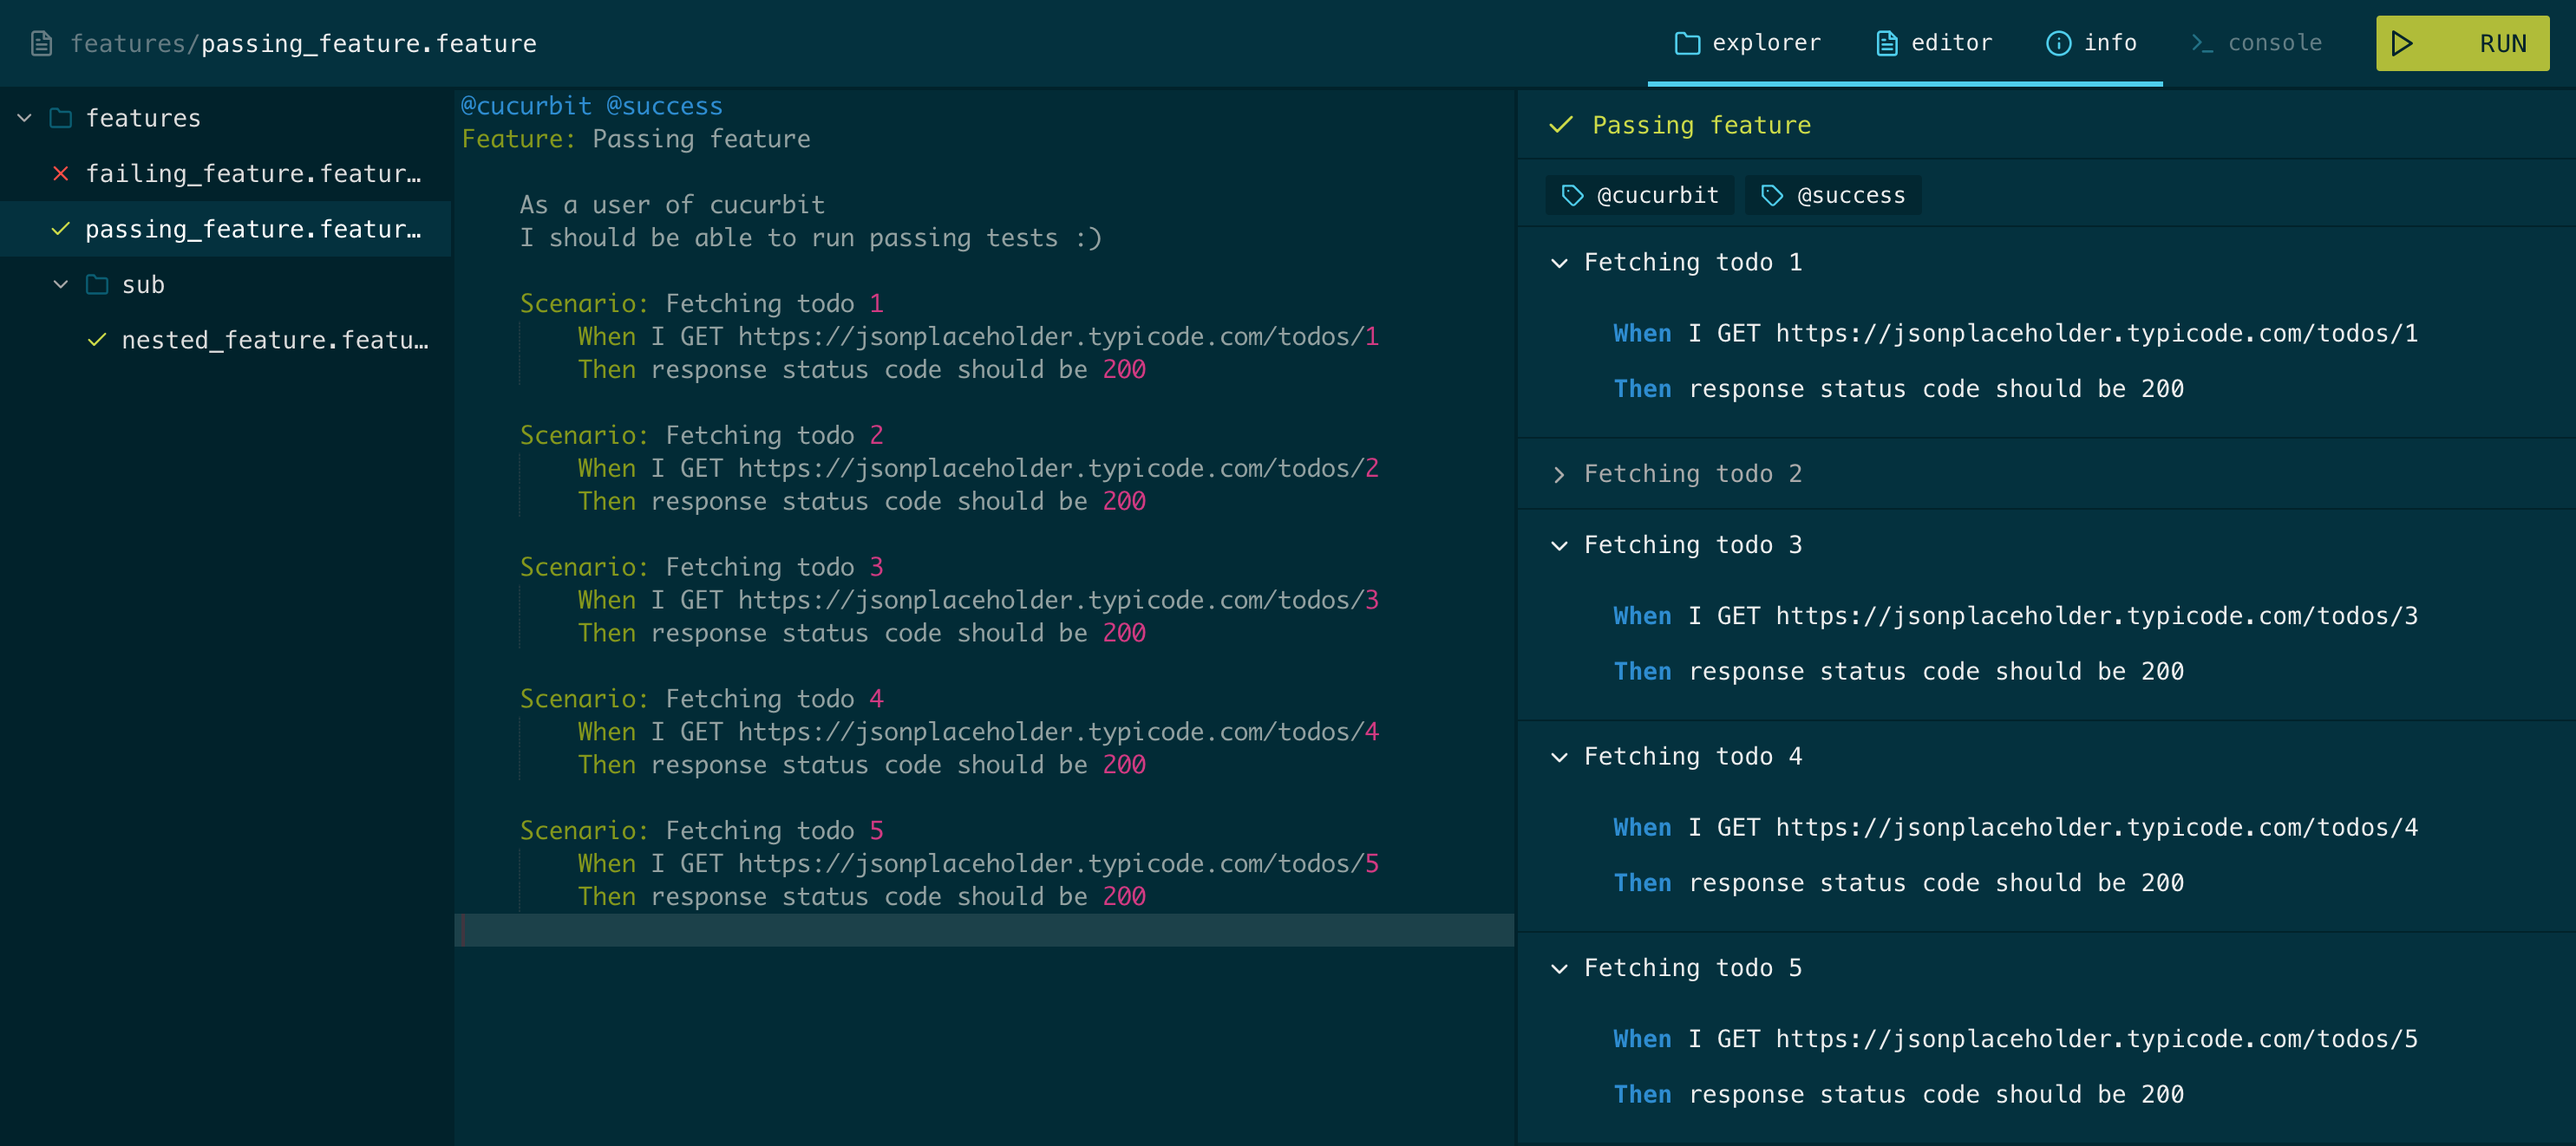
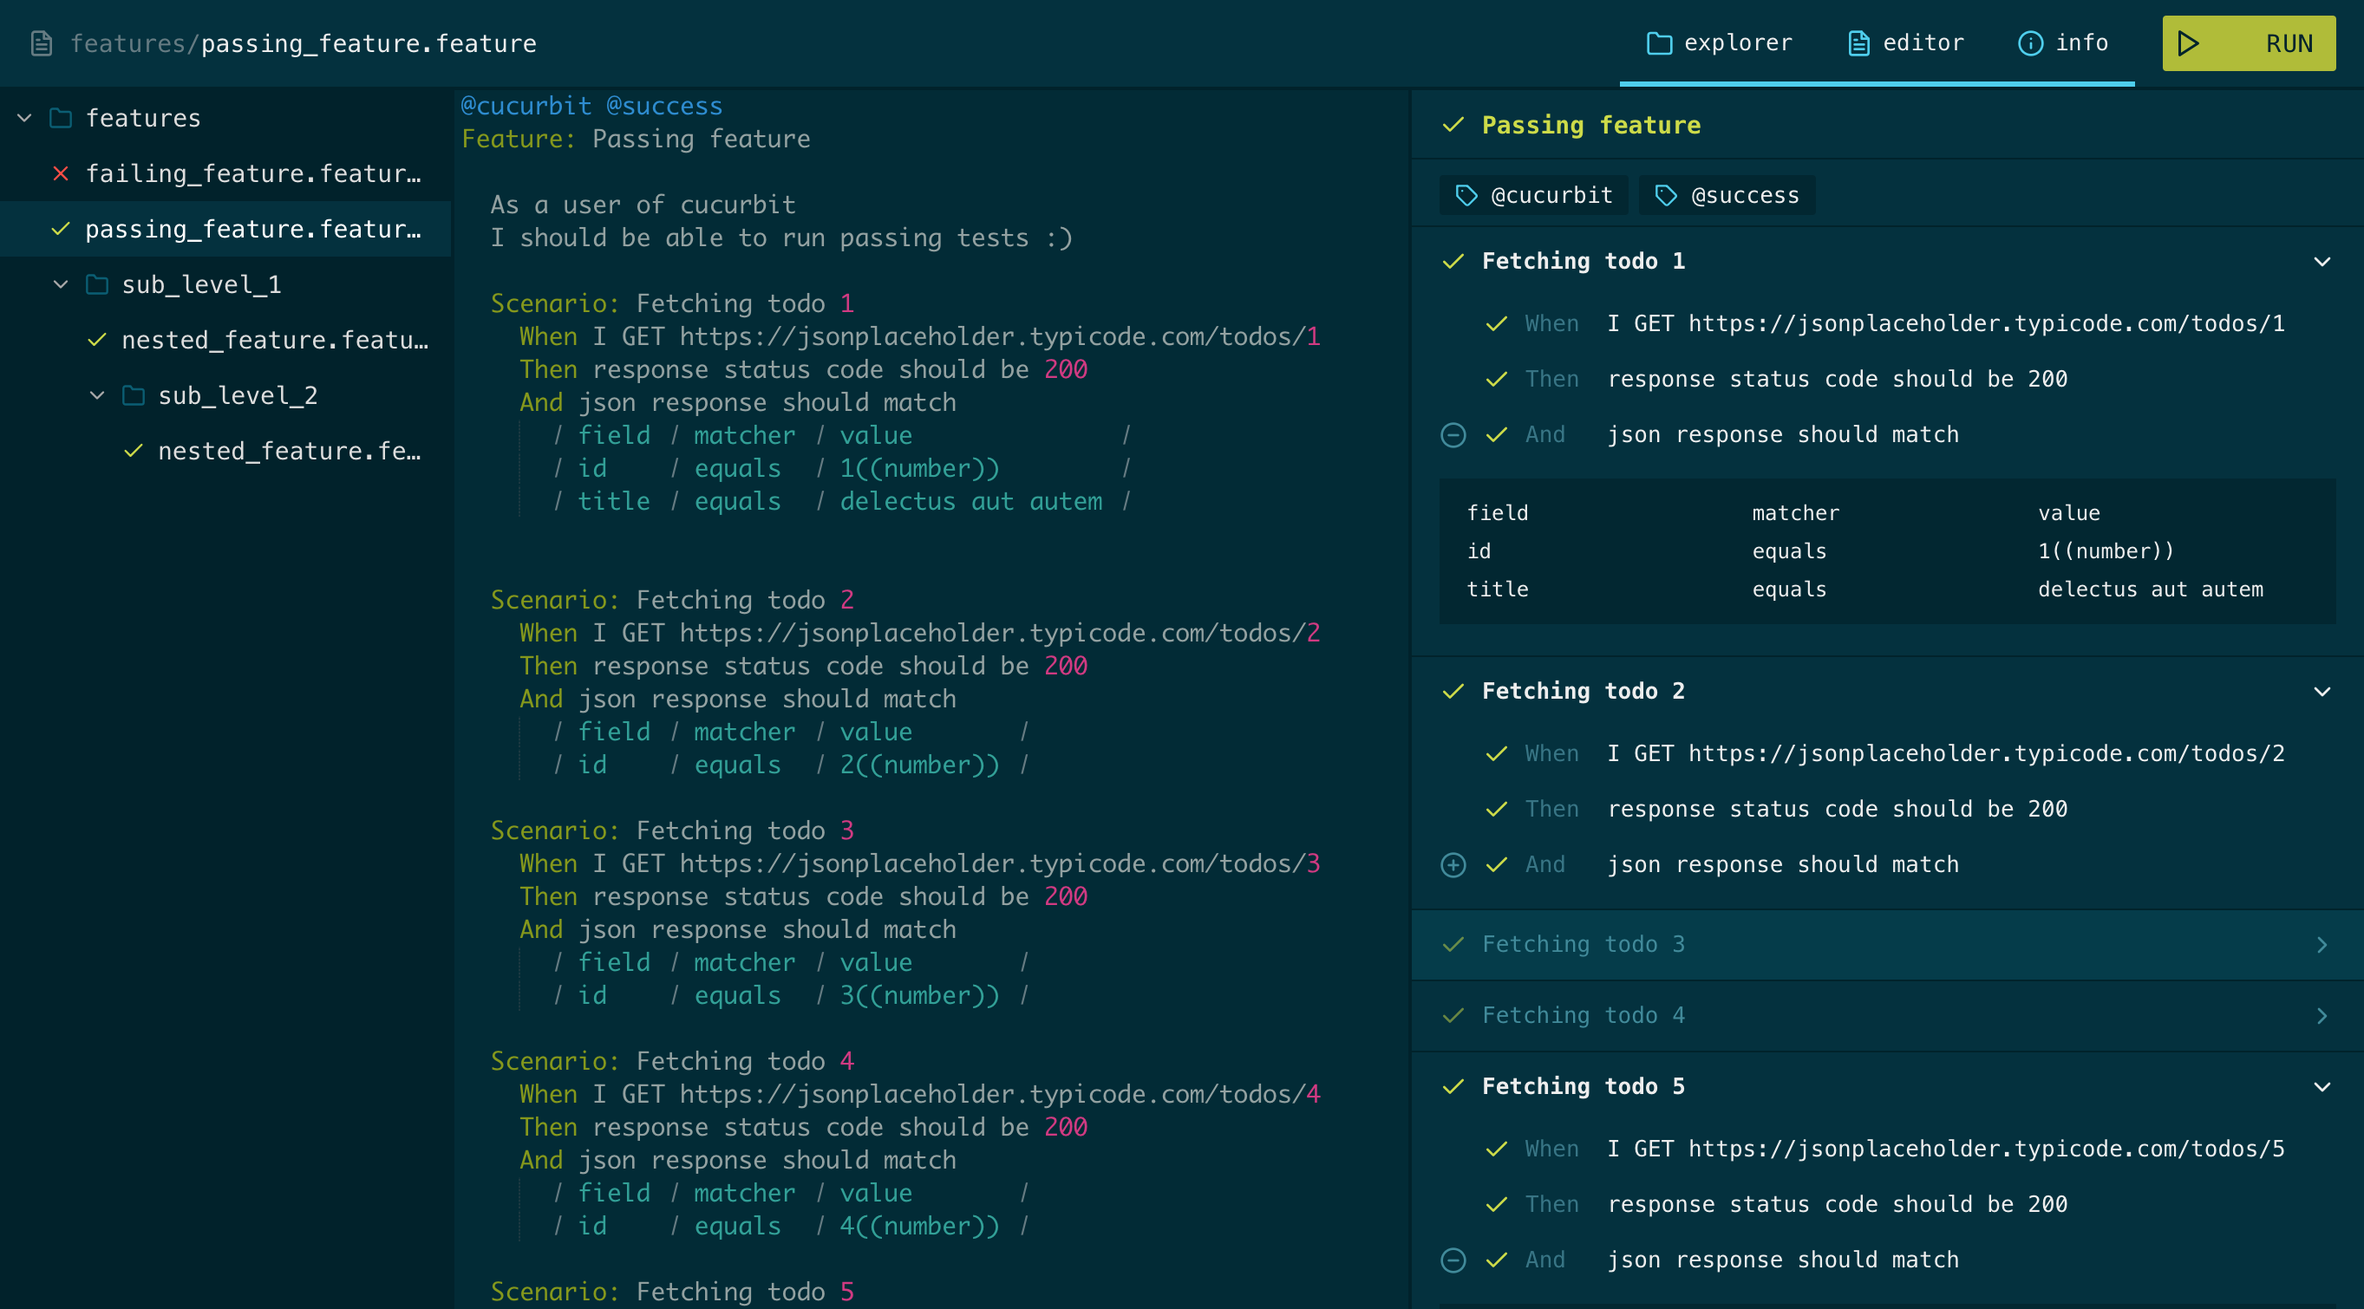
feat(ui): add status for scenarions/steps

diff --git a/packages/ui/src/components/Scenario.js b/packages/ui/src/components/Scenario.js
@@ -3,21 +3,24 @@ import styled from 'styled-components'
 import { ChevronRight, ChevronDown } from 'react-feather'
 import Tags from './Tags'
 import ScenarioSteps from './ScenarioSteps'
+import StatusIcon from './StatusIcon'
 
 const Container = styled.div`
     background: #01313f;
-    color: ${props => (props.isOpened ? 'inherit' : '#aaa')};
+    color: ${props => (props.isOpened ? 'inherit' : '#3e8a9b')};
     border-top: 1px solid #00222b;
-    font-size: 14px;
+    font-size: 13px;
 `
 
 const Header = styled.header`
-    display: flex;
-    justify-content: space-between;
+    display: grid;
     align-items: center;
-    padding: 9px 16px;
+    padding: 9px 16px 9px;
     cursor: pointer;
     user-select: none;
+    grid-template-columns: 16px 1fr 16px;
+    grid-column-gap: 9px;
+    font-weight: ${props => (props.isOpened ? 'bold' : 'normal')};
     &:hover {
         background: #013c4b;
     }
@@ -30,7 +33,7 @@ export default class Scenario extends Component {
         super(props)
 
         this.state = {
-            isOpened: false,
+            isOpened: true,
         }
     }
 
@@ -41,31 +44,27 @@ export default class Scenario extends Component {
     }
 
     render() {
-        const { scenario } = this.props
+        const { scenario, report } = this.props
         const { isOpened } = this.state
 
         return (
             <Container isOpened={isOpened}>
-                <Header onClick={this.handleToggle}>
+                <Header isOpened={isOpened} onClick={this.handleToggle}>
+                    <StatusIcon
+                        status={report ? report.status : null}
+                        size={16}
+                        type="scenario"
+                        style={{ opacity: isOpened ? 1 : .5 }}
+                    />
                     <span>
-                        {isOpened ? (
-                            <ChevronDown
-                                size={16}
-                                style={{ verticalAlign: 'middle', marginRight: 6 }}
-                            />
-                        ) : (
-                            <ChevronRight
-                                size={16}
-                                style={{ verticalAlign: 'middle', marginRight: 6 }}
-                            />
-                        )}
                         {scenario.name}
                     </span>
+                    {isOpened ? <ChevronDown size={16}/> : <ChevronRight size={16}/>}
                 </Header>
                 {isOpened && (
                     <Content>
                         <Tags tags={scenario.tags} />
-                        <ScenarioSteps steps={scenario.steps} />
+                        <ScenarioSteps steps={scenario.steps} report={report} />
                     </Content>
                 )}
             </Container>

diff --git a/packages/ui/src/components/ScenarioStepsItem.js b/packages/ui/src/components/ScenarioStepsItem.js
@@ -1,25 +1,28 @@
 import React, { Component } from 'react'
 import styled from 'styled-components'
-import { PlusCircle } from 'react-feather'
+import { PlusCircle, MinusCircle } from 'react-feather'
 import DataTable from './DataTable'
+import StatusIcon from './StatusIcon'
 
-const Container = styled.div``
+const Container = styled.div`
+    font-size: 13px;
+`
 
 const Header = styled.header`
     display: grid;
-    grid-template-columns: 24px 40px 1fr;
-    grid-column-gap: 9px;
     align-items: center;
-    padding: 5px 16px;
+    padding: 5px 16px 5px;
+    cursor: pointer;
+    grid-template-columns: 16px 16px 38px 1fr;
+    grid-column-gap: 9px;    
     &:hover {
         background: #013c4b;
     }
 `
 
 const Keyword = styled.span`
-    font-weight: bold;
-    color: #268bd2;
-    text-align: right;
+    color: #357586;
+    text-align: left;
 `
 
 export default class ScenarioStepsItem extends Component {
@@ -31,8 +34,14 @@ export default class ScenarioStepsItem extends Component {
         }
     }
 
+    handleToggle = () => {
+        this.setState({
+            isOpened: !this.state.isOpened,
+        })
+    }
+
     render() {
-        const { step } = this.props
+        const { step, report } = this.props
         const { isOpened } = this.state
 
         const hasExtra = !!step.argument
@@ -46,16 +55,17 @@ export default class ScenarioStepsItem extends Component {
 
         return (
             <Container>
-                <Header>
+                <Header onClick={this.handleToggle}>
                     {hasExtra ? (
                         isOpened ? (
-                            <PlusCircle size={18} />
+                            <MinusCircle size={16} color="#3e8a9b" />
                         ) : (
-                            <PlusCircle size={18} />
+                            <PlusCircle size={16} color="#3e8a9b" />
                         )
                     ) : (
                         <span />
                     )}
+                    <StatusIcon status={report ? report.status : null} size={16} type="step"/>
                     <Keyword>{step.keyword}</Keyword>
                     <div>{step.text}</div>
                 </Header>

diff --git a/packages/ui/src/components/FeatureDoc.js b/packages/ui/src/components/FeatureDoc.js
@@ -22,6 +22,7 @@ const Header = styled.div`
     font-size: 14px;
     padding: 0 16px;
     border-bottom: 1px solid #00222b;
+    font-weight: bold;
 `
 
 export default class FeatureDoc extends Component {
@@ -54,13 +55,24 @@ export default class FeatureDoc extends Component {
                         color: getColorForStatus(status, 'inherit'),
                     }}
                 >
-                    <StatusIcon status={status} size={18} style={{ marginRight: 9 }} />
+                    <StatusIcon status={status} size={16} style={{ marginRight: 9 }} />
                     {feature.document.feature.name}
                 </Header>
                 <Tags tags={feature.document.feature.tags} />
-                {scenarios.map((scenario, i) => (
-                    <Scenario key={i} scenario={scenario} />
-                ))}
+                {scenarios.map(scenario => {
+                    let scenarioReport
+                    if (featureReport) {
+                        scenarioReport = featureReport.scenarios.find(s => s.line === scenario.location.line)
+                    }
+
+                    return (
+                        <Scenario
+                            key={scenario.location.line}
+                            scenario={scenario}
+                            report={scenarioReport}
+                        />
+                    )
+                })}
             </Container>
         )
     }

diff --git a/packages/ui/src/components/AppBar.js b/packages/ui/src/components/AppBar.js
@@ -1,7 +1,7 @@
 import React, { Component } from 'react'
 import styled from 'styled-components'
-import { Folder, FileText, Info, Terminal, Play, Loader } from 'react-feather'
-import { PANEL_EXPLORER, PANEL_EDITOR, PANEL_INFO, PANEL_CONSOLE } from '../lib/layout'
+import { Folder, FileText, Info, Play, Clock } from 'react-feather'
+import { PANEL_EXPLORER, PANEL_EDITOR, PANEL_INFO } from '../lib/layout'
 import AppBarPanelToggle from './AppBarPanelToggle'
 import CurrentUri from './CurrentUri'
 
@@ -74,15 +74,17 @@ export default class AppBar extends Component {
                         onToggle={onPanelToggle}
                         isActive={panels.includes(PANEL_INFO)}
                     />
+                    {/*
                     <AppBarPanelToggle
                         Icon={Terminal}
                         panel={PANEL_CONSOLE}
                         onToggle={onPanelToggle}
                         isActive={panels.includes(PANEL_CONSOLE)}
                     />
+                    */}
                     {isRunning && (
                         <RunButton isRunning={true}>
-                            <Loader size={18} style={{ marginRight: 6 }} />
+                            <Clock size={18} style={{ marginRight: 6 }} />
                             running
                         </RunButton>
                     )}

diff --git a/packages/ui/src/components/StatusIcon.js b/packages/ui/src/components/StatusIcon.js
@@ -1,19 +1,25 @@
 import React, { Component } from 'react'
-import { Box, Slash, Check, X } from 'react-feather'
+import { Box, Slash, Check, X, Layers } from 'react-feather'
 import { getColorForStatus } from '../lib/status'
 
 export default class StatusIcon extends Component {
     static defaultProps = {
+        type: 'feature',
         style: {},
     }
 
     render() {
-        const { size, status, style } = this.props
+        const { type, size, status, style } = this.props
 
         const color = getColorForStatus(status)
         const props = { size, color, style }
 
-        if (status === undefined || status === null) return <Box {...props} />
+        if (status === undefined || status === null) {
+            if (type === 'feature') return <Layers {...props} />
+            if (type === 'scenario') return <Box {...props} />
+            return <span/>
+        }
+
         if (status === 'passed') return <Check {...props} />
         if (status === 'failed') return <X {...props} />
 

diff --git a/packages/ui/src/components/ScenarioSteps.js b/packages/ui/src/components/ScenarioSteps.js
@@ -3,18 +3,25 @@ import styled from 'styled-components'
 import ScenarioStepsItem from './ScenarioStepsItem'
 
 const Container = styled.div`
-    padding: 5px 0 12px;
+    padding: 0 0 9px;
 `
 
 export default class ScenarioSteps extends Component {
     render() {
-        const { steps } = this.props
+        const { steps, report } = this.props
 
         return (
             <Container>
-                {steps.map((step, i) => (
-                    <ScenarioStepsItem key={i} step={step} />
-                ))}
+                {steps.map((step, i) => {
+                    let stepReport
+                    if (report) {
+                        stepReport = report.steps.find(s => s.line === step.location.line)
+                    }
+
+                    return (
+                        <ScenarioStepsItem key={i} step={step} report={stepReport}/>
+                    )
+                })}
             </Container>
         )
     }

diff --git a/packages/ui/src/components/Editor.js b/packages/ui/src/components/Editor.js
@@ -25,7 +25,7 @@ export default class Editor extends Component {
                     showGutter={false}
                     highlightActiveLine={true}
                     editorProps={{ $blockScrolling: true }}
-                    fontSize={14}
+                    fontSize={13}
                     wrapEnabled={false}
                     width="100%"
                     height="100%"

diff --git a/packages/ui/src/components/DataTable.js b/packages/ui/src/components/DataTable.js
@@ -21,8 +21,6 @@ export default class DataTable extends Component {
             gridTemplateColumns: firstRow.cells.map(() => '1fr').join(' '),
         }
 
-        console.log(firstRow, gridStyle)
-
         return (
             <Container style={gridStyle}>
                 {dataTable.rows.map((row, i) => {
